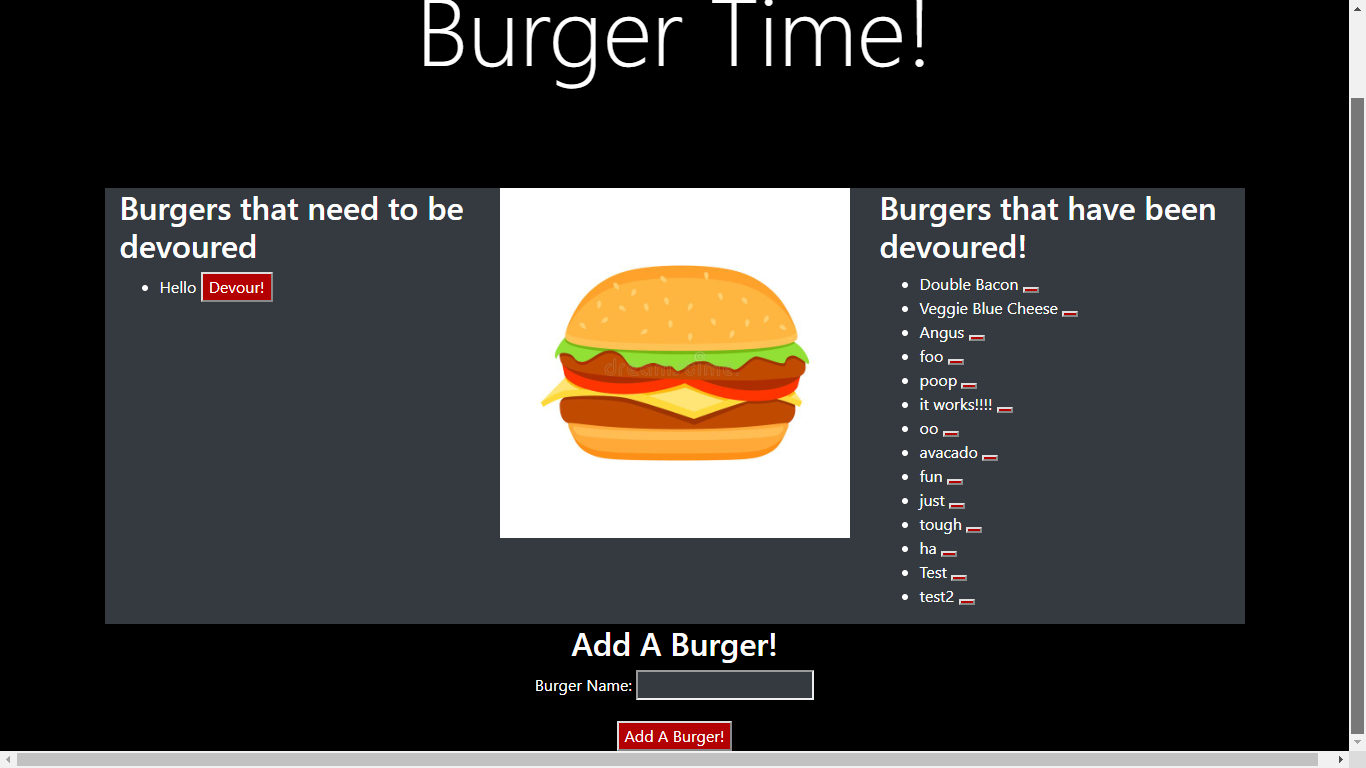
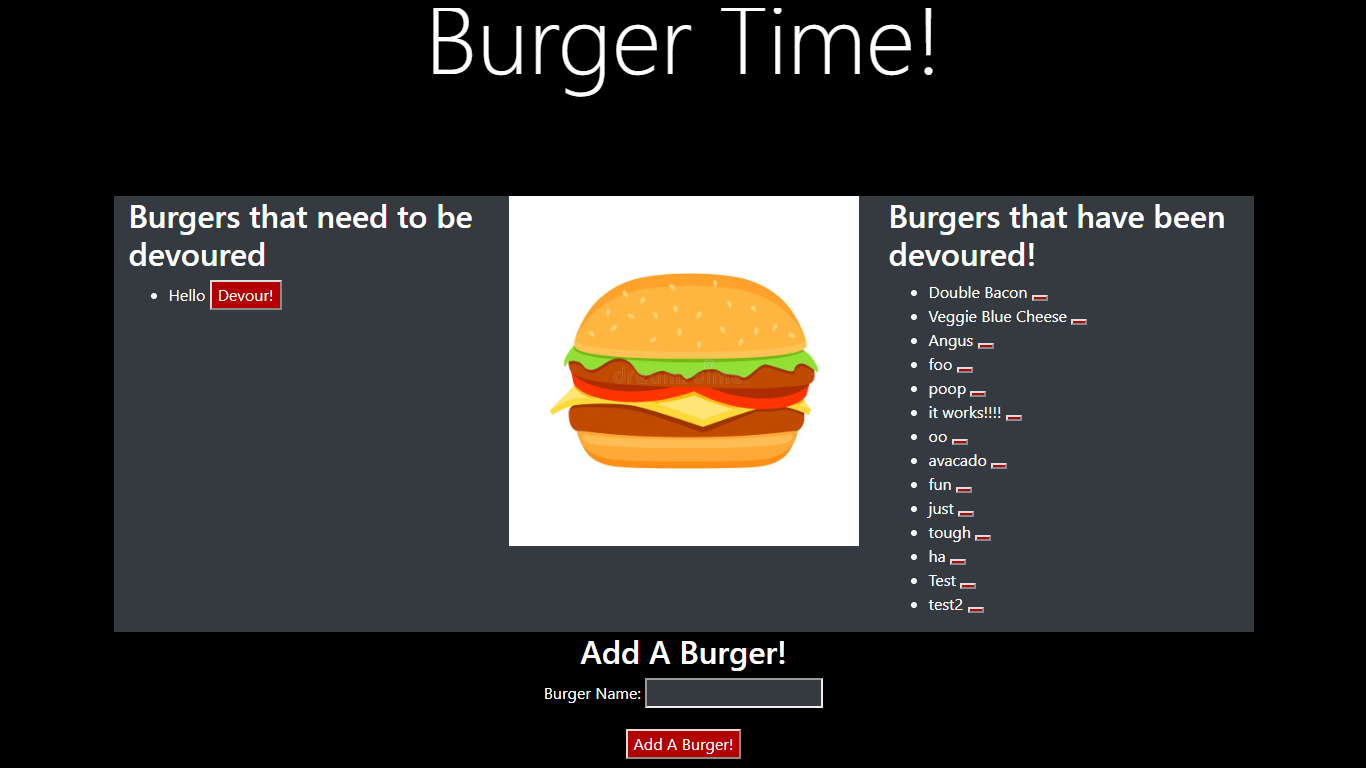
edits

Changed region(s): [[0.0, 0.0, 1.0, 1.0], [0.3075, 0.0, 0.7072, 0.125]]

diff --git a/portfolio.html b/portfolio.html
@@ -6,6 +6,7 @@
     <meta name="viewport" content="width=device-width, initial-scale=1.0">
     <meta http-equiv="X-UA-Compatible" content="ie=edge">
     <link rel="stylesheet" href="https://stackpath.bootstrapcdn.com/bootstrap/4.3.1/css/bootstrap.min.css">
+    <script src="https://cdnjs.cloudflare.com/ajax/libs/jquery/3.2.1/jquery.min.js"></script>
     <link rel="stylesheet" type="text/css" href="assets/css/style.css">
     <link
         href="https://fonts.googleapis.com/css?family=Fascinate|Ubuntu|Press+Start+2P|Kanit|Quicksand:300&display=swap"
@@ -64,69 +65,53 @@
             <div class="row">
                 <div class="col-sm-6">
                     <h4><u>MILA</u></h4>
-                    <a target="_blank" href="https://github.com/swedishkinda/MilaReactTesting">GitHub Repo</a>
+                    <a id="change-color" onclick="changeColor('change-color'); return true;" class="ugh" target="_blank"
+                        href="https://github.com/swedishkinda/MilaReactTesting">GitHub
+                        Repo</a>
+                    <img src="images/wip.gif" class="wip" alt="WIP">
                     <a target="_blank" href="http://milacaptions.herokuapp.com/">
                         <img src="images/MILA.png" class="img img-fluid" alt="My Chef">
                     </a>
+                    <img src="images/wip.gif" class="wip" alt="WIP">
                     <div class="textBox">
                         <p>
                             MILA is a social app providing a curated database of Instagram captions. In addition to the
-                            general
-                            caption search, users are provided an interactive dashboard to collaboratively upload,
-                            share,
-                            and
-                            suggest clever photo captions with each other. Test your creativity with MILA. Offer caption
-                            suggestions on user photos and watch as the community ranks your wit. MILA is a relevant,
-                            millennial
-                            focused application.
-
-                            Welcome to the HUB!
-                        </p>
-                        <p>
-                            Nearly two out of every three adults aged 18-29 use Instagram. With nearly 1 BILLION monthly
-                            users,
-                            Instagram has become the third most popular social media network in the world. One might
-                            ask,
-                            how is
-                            there not already a curated database of witty instagram captions, relevant to pop-culture
-                            and
-                            the
-                            millennial lifestyle? We weren’t sure either. So we made one!
+                            general caption search, users are provided an interactive dashboard to collaboratively
+                            upload, share, and suggest clever photo captions with each other. Test your creativity with
+                            MILA. Offer caption suggestions on user photos and watch as the community ranks your wit.
+                            MILA is a relevant, millennial focused application.
                         </p>
                     </div>
                 </div>
                 <div class="col-sm-6">
                     <h4><u>My Chef</u></h4>
-                    <a target="_blank" href="https://github.com/swedishkinda/My-Chef">GitHub Repo</a>
+                    <a id="change-color" onclick="changeColor('change-color'); return true;" class="ugh" target="_blank"
+                        href="https://github.com/swedishkinda/My-Chef">GitHub Repo</a>
                     <a target="_blank" href="https://swedishkinda.github.io/My-Chef/">
                         <img src="images/My-Chef.png" class="img img-fluid" alt="My Chef">
                     </a>
                     <div class="textBox">
                         <p>
-                            Problem:
-                            My Chef is a Javascript application that essentially returns a list of drink or meal recipes
-                            based
-                            on a given ingredient. Enter an ingredient and My Chef will return a list of possible
-                            recipes to
-                            help you come up with something delicious. If you can’t decide, My Chef will give you a
-                            random
-                            recipe as well!
+                            Problem: My Chef is a Javascript application that essentially returns a list of drink or
+                            meal recipes based on a given ingredient. Enter an ingredient and My Chef will return a list
+                            of possible recipes to help you come up with something delicious. If you can’t decide, My
+                            Chef will give you a random recipe as well!
                         </p>
                         <p>
-                            Tech:
-                            AJAX calls to two APIs. “The Meal DB” and “The Cocktail DB”. Utilizing a new technology:
-                            “Slick”.
-                            JQuery library for a carousel display. Bootstrap “Grid” implementation•String validation
-                            using
-                            “modal” alerts. Dynamically generated repeating elements in recipe table and carousel
-                            display.
+                            Tech: AJAX calls to two APIs. “The Meal DB” and “The Cocktail DB”. Utilizing a new
+                            technology: “Slick”. JQuery library for a carousel display. Bootstrap “Grid”
+                            implementation•String validation using “modal” alerts. Dynamically generated repeating
+                            elements in recipe table and carousel display.
                         </p>
                     </div>
                 </div>
                 <div class="row">
-                    <div class=" resWidth col-sm-6">
-                        <div id="liriTitle"><h4><u>Liri</u></h4>
-                        <a target="_blank" href="https://github.com/swedishkinda/liri-node-app">GitHub Repo</a>
+                    <div class="resWidth col-sm-6">
+                        <div id="liriTitle">
+                            <h4><u>Liri</u></h4>
+                            <a id="change-color" onclick="changeColor('change-color'); return true;" class="ugh"
+                                target="_blank" href="https://github.com/swedishkinda/liri-node-app">GitHub
+                                Repo</a>
                         </div>
                         <br>
                         <iframe class="vid img img-fluid" src="https://www.youtube.com/embed/v3Cd6raLesY"
@@ -135,47 +120,39 @@
                             allowfullscreen></iframe>
                         <div class="liriBox liriBox2">
                             <p>
-                                Problem:
-                                Make a node app where the user can search for a song on Spotify, movie on IMDB, or for a
-                                concert
-                                on
-                                Bandsintown. All must be done in the terminal.
+                                Problem: Make a node app where the user can search for a song on Spotify, movie on IMDB,
+                                or for a concert on Bandsintown. All must be done in the terminal.
                             </p>
                             <p>
-                                Solution:
-                                Made a js file with api calls and console logs.
+                                Solution: Made a js file with api calls and console logs.
                             </p>
                             <p>
                                 Tech: API calls, Console logs, Inquirer npm, Spotify npm, Axios npm, Moment npm, Fs npm,
-                                Dotenv
-                                npm.
+                                Dotenv npm.
                             </p>
                         </div>
                     </div>
                     <div class="resWidth2 col-sm-6">
                         <h4><u>Burger Time</u></h4>
-                        <a target="_blank" href="https://github.com/swedishkinda/Burger">GitHub Repo</a>
+                        <a style="margin-bottom: -7px !important;" id="change-color"
+                            onclick="changeColor('change-color'); return true;" class="ugh" target="_blank"
+                            href="https://github.com/swedishkinda/Burger">GitHub Repo</a>
                         <br>
                         <a target="_blank" href="https://serene-thicket-33141.herokuapp.com/">
                             <img src="images/Burger.png" class="img img3 img-fluid" alt="Burger Time!">
                         </a>
                         <div id="burgerBox">
                             <p>
-                                Problem:
-                                Make a handlebars and database app where the user can add something to the database and
-                                update a
-                                value in one of the columns.
+                                Problem: Make a handlebars and database app where the user can add something to the
+                                database and update a value in one of the columns.
                             </p>
                             <p>
-                                Solution:
-                                Made a database with a whole bunch of files to put and post to said database. Made
-                                handlebars files
-                                and js files linked together.
+                                Solution: Made a database with a whole bunch of files to put and post to said database.
+                                Made handlebars files and js files linked together.
                             </p>
-                            <p id="peePee dapeePee">
+                            <p id="burgerBoxFix daburgerBoxFix375px">
                                 Tech: MySQL Database, Express NPM, Express Handlebars NPM,MySQL NPM, AJAX, CRUD,
-                                Handlebars,Node.js,
-                                Routers.
+                                Handlebars,Node.js, Routers.
                             </p>
                         </div>
                     </div>
@@ -185,7 +162,8 @@
             <div class="row">
                 <div class="col-sm-6">
                     <h4><u>Psychic Game</u></h4>
-                    <a target="_blank" href="https://github.com/swedishkinda/Psychic-Game">GitHub Repo</a>
+                    <a id="change-color" onclick="changeColor('change-color'); return true;" class="ugh" target="_blank"
+                        href="https://github.com/swedishkinda/Psychic-Game">GitHub Repo</a>
                     <a target="_blank" href="https://swedishkinda.github.io/Psychic-Game/">
                         <img src="images/Psychic-Game.png" class="img img2 img-fluid" alt="Psychic Game">
                     </a>
@@ -195,11 +173,9 @@
                             Make a game so user has to guess what letter the computer has picked.
                         </p>
                         <p>
-                            Solution:
-                            Made an array of all letters and a random number generator for the computer's letter. Made
-                            an
-                            onkey
-                            function for user guess. Made if statements for correct and incorrect guesses.
+                            Solution: Made an array of all letters and a random number generator for the computer's
+                            letter. Made an <em>onkey</em> function for user guess. Made if statements for correct and
+                            incorrect guesses.
                         </p>
                         <p>
                             Tech:
@@ -209,29 +185,22 @@
                 </div>
                 <div class="col-sm-6">
                     <h4><u>Crystal Collector</u></h4>
-                    <a target="_blank" href="https://github.com/swedishkinda/Crystal-Collector">GitHub Repo</a>
+                    <a id="change-color" onclick="changeColor('change-color'); return true;" class="ugh" target="_blank"
+                        href="https://github.com/swedishkinda/Crystal-Collector">GitHub
+                        Repo</a>
                     <a target="_blank" href="https://swedishkinda.github.io/Crystal-Collector/">
                         <img src="images/Crystal-Collector.png" class="img img-fluid" alt="Crystal Collector">
                     </a>
                     <div class="textBox">
                         <p>
-                            Problem:
-                            Make a game where the user has to click on four different buttons to add up random numbers
-                            to
-                            match
-                            a bigger random number. User chosen numbers have to be hidden and all numbers must change
-                            after
-                            each
-                            round.
+                            Problem: Make a game where the user has to click on four different buttons to add up random
+                            numbers to match a bigger random number. User chosen numbers have to be hidden and all
+                            numbers must change after each round.
                         </p>
                         <p>
-                            Solution:
-                            Made two different arrays of all numbers to be used. Made random number generater for both
-                            arrays.
-                            Assigned returned numbers to user buttons and goal score. Used if statements for when goal
-                            score
-                            is
-                            reached and logged wins/losses.
+                            Solution: Made two different arrays of all numbers to be used. Made random number generater
+                            for both arrays. Assigned returned numbers to user buttons and goal score. Used if
+                            statements for when goal score is reached and logged wins/losses.
                         </p>
                         <p>
                             Tech: Arrays, onclick functions, math.random, JQuery, parseInt.
@@ -251,5 +220,11 @@
     </div>
 
 </body>
+
+<script>
+    function changeColor(id) {
+        document.getElementById(id).style.color = "palevioletred"; // forecolor
+    }
+</script>
 
 </html>

diff --git a/assets/css/style.css b/assets/css/style.css
@@ -4,16 +4,22 @@
 
 body {
     text-align: center;
+    /* Whoops */
     background-image: url("../../images/vaporwave.jpg");
     /* Credit goes to hdqwalls.com. Author is anonymous */
     color: white;
     font-family: 'Ubuntu', sans-serif;
 }
 
+.container a {
+    color: white;
+}
+
 h1 {
     padding-right: 16px;
     font-family: 'Fascinate', cursive;
-    font-size: 40px
+    font-size: 40px;
+    margin-top: 1em;
 }
 
 .img {
@@ -51,10 +57,6 @@ h1 {
     margin-right: 14px;
 }
 
-a {
-    color: white;
-}
-
 a:hover {
     color: palevioletred;
 }
@@ -62,6 +64,10 @@ a:hover {
 .navbar {
     font-size: 14px;
     font-family: 'Press Start 2P', cursive;
+}
+
+.nav-link {
+    color: white;
 }
 
 .p {
@@ -80,11 +86,11 @@ textarea {
 }
 
 #name {
-    padding-right: 40px
+    padding-right: 40px;
 }
 
 #email {
-    padding-right: 41px
+    padding-right: 41px;
 }
 
 .reset {
@@ -117,6 +123,7 @@ textarea {
 
 #projectBox {
     background: rgba(0, 0, 0, 0.7);
+    padding: 30px;
 }
 
 .textBox {
@@ -125,7 +132,7 @@ textarea {
     margin-top: 20px;
 }
 
-#peePee {
+#burgerBoxFix {
     width: 516px;
     margin-left: 21px;
 }
@@ -139,6 +146,13 @@ textarea {
     margin-left: 13px;
     width: 551px;
 }
+
+.ugh {
+    margin-bottom: 1em;
+    display: block;
+}
+
+
 
 @media only screen and (max-width: 1024px) {
     [class*="copyright"] {
@@ -200,7 +214,7 @@ textarea {
         width: 336px;
         margin-left: 21px;
     }
-    [id*="dapeePee"] {
+    [id*="daburgerBoxFix375px"] {
         width: 345px;
         margin-left: 0px;
     }

diff --git a/index.html b/index.html
@@ -19,7 +19,7 @@
     <div class="container">
         <div class="row">
             <div class="col-sm-12">
-                <h1>Christopher Hedlund</h1>
+                <h1 style="margin-top: 1em;">Christopher Hedlund</h1>
             </div>
         </div>
         <br>
